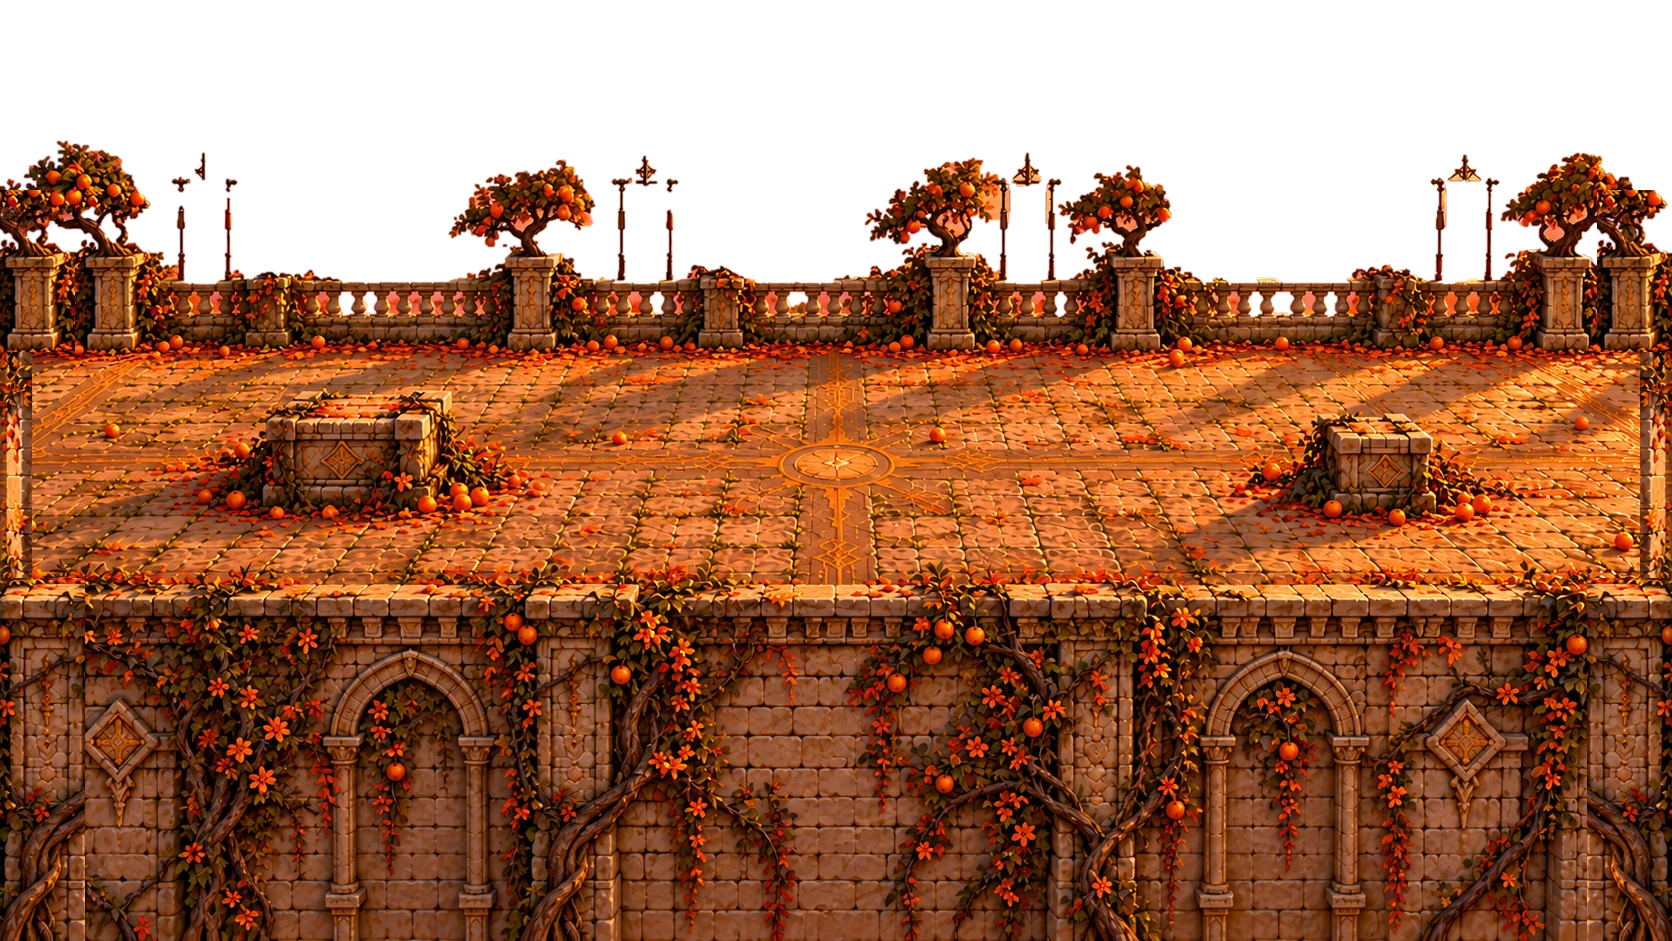
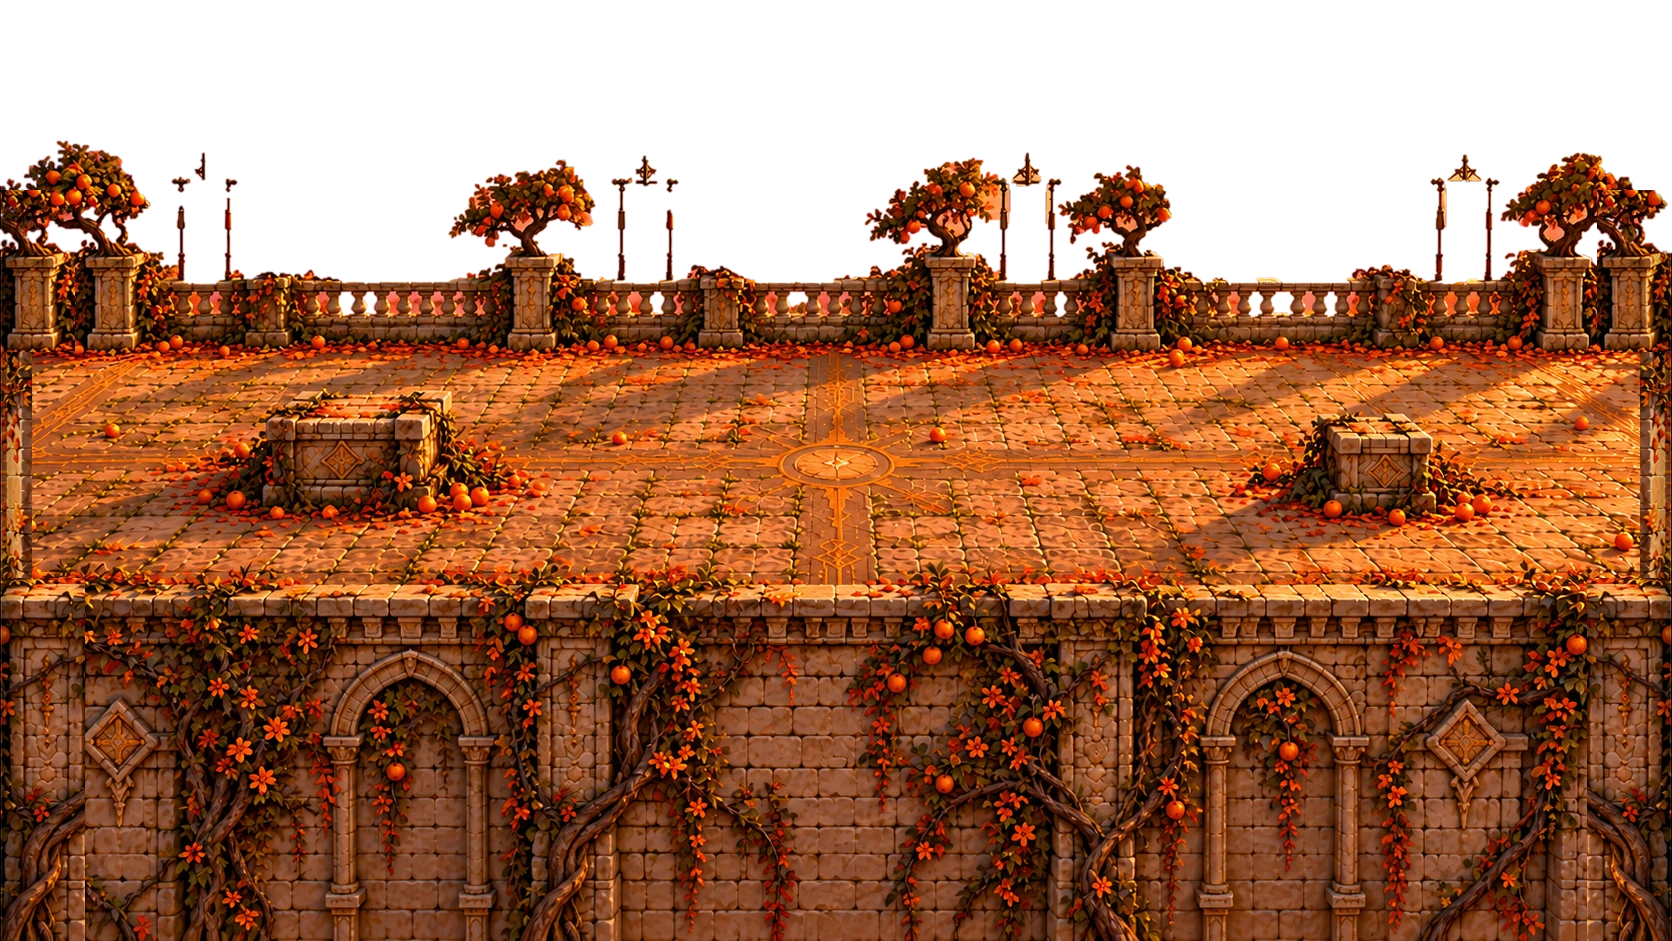
Movement, smoother: no freeze on landing on a block (you keep going the way you hold); a jump a little in front of / behind a block still lands on it (46 px of depth forgiveness); jumping on a map above no longer slows your depth movement (its whole floor is not held like a small block) — the stair 
Claude-Session: https://claude.ai/code/session_01L1uDDec2PRhRRuGiNU2YTw

diff --git a/src/world/OpenWorld.ts b/src/world/OpenWorld.ts
@@ -148,6 +148,19 @@ export class OpenWorld {
         if (!this.scene.load.isLoading()) this.scene.load.start();
       };
       put(`heights-${h.id}`, h.img, () => this.towers.push(this.scene.add.image(h.x, h.imgY, `heights-${h.id}`).setOrigin(0, 0).setDepth(h.depth ?? -1.2)));
+      // its wall's shadow on the floor in front of its foot (the lower floor, or the map it rises from): anchors it there
+      if (!this.scene.textures.exists('heights-shade')) {
+        const c = this.scene.textures.createCanvas('heights-shade', 256, 64)!, x = c.getContext();
+        const gy = x.createLinearGradient(0, 0, 0, 64); gy.addColorStop(0, 'rgba(20,8,4,0.55)'); gy.addColorStop(0.35, 'rgba(20,8,4,0.28)'); gy.addColorStop(1, 'rgba(20,8,4,0)');
+        x.fillStyle = gy; x.fillRect(0, 0, 256, 64);
+        x.globalCompositeOperation = 'destination-in';
+        const gx = x.createLinearGradient(0, 0, 256, 0); gx.addColorStop(0, 'rgba(0,0,0,0)'); gx.addColorStop(0.08, 'rgba(0,0,0,1)'); gx.addColorStop(0.92, 'rgba(0,0,0,1)'); gx.addColorStop(1, 'rgba(0,0,0,0)');
+        x.fillStyle = gx; x.fillRect(0, 0, 256, 64); c.refresh();
+      }
+      const under = HEIGHTS.find((o) => o !== h && o.H < h.H && h.x + 40 >= o.x && h.x + h.w - 40 <= o.x + o.w);
+      const baseZ = under ? under.H : 0;
+      this.towers.push(this.scene.add.image(h.x + h.w / 2, h.front - baseZ, 'heights-shade').setOrigin(0.5, 0).setDisplaySize(h.w + 20, 70)
+        .setDepth(under ? (under.depth ?? -1.2) + 0.05 : -0.9));
       for (const b of h.blocks) put(`heights-${h.id}-${b.id}`, b.occ.img, () => this.towers.push(this.scene.add.image(b.occ.x, h.imgY + b.occ.py, `heights-${h.id}-${b.id}`).setOrigin(0, 0).setDepth(h.front + 1 + b.front * 0.001)));
     }
   }
@@ -162,6 +175,12 @@ export class OpenWorld {
       for (let i = 24; i > 0; i--) { g.fillStyle(0xffe2a0, 0.06 + (1 - i / 24) * 0.09); g.fillEllipse(64, 16, 128 * (i / 24), 32 * (i / 24)); }
       g.generateTexture('climb-glow', 128, 32); g.destroy();
     }
+    if (!sc.textures.exists('climb-rim')) {
+      const g = sc.make.graphics({ x: 0, y: 0 }, false);
+      for (let i = 0; i < 5; i++) { g.fillStyle(0xfff0c0, [0.12, 0.3, 0.9, 0.3, 0.12][i]); g.fillRect(4, i * 2, 248, 2); }
+      g.fillStyle(0xfff0c0, 0.4); g.fillRect(0, 4, 4, 2); g.fillRect(252, 4, 4, 2);
+      g.generateTexture('climb-rim', 256, 10); g.destroy();
+    }
     if (!sc.textures.exists('climb-mote')) {
       const g = sc.make.graphics({ x: 0, y: 0 }, false);
       for (let r = 6; r > 0; r--) { g.fillStyle(0xfff2c8, 0.18 + (1 - r / 6) * 0.5); g.fillCircle(6, 6, r); }
@@ -174,6 +193,12 @@ export class OpenWorld {
       const cx = (t.x0 + t.x1) / 2, w = t.x1 - t.x0, top = t.front - Math.round(t.h / CUBE.h) * CUBE.h - CUBE.top / 2;
       const glow = add(sc.add.image(cx, top, 'climb-glow').setDisplaySize(w * 0.95, CUBE.top * 1.6).setBlendMode(Phaser.BlendModes.ADD).setDepth(t.front + 1.2));
       pulse(glow, 0.55, 1, 1300, i * 260);
+      // a bright rim along the top face's front edge (where you land) and a soft halo round the cube's top
+      const rimY = t.front - t.base - Math.round(t.h / CUBE.h) * CUBE.h;
+      const rim = add(sc.add.image(cx, rimY, 'climb-rim').setDisplaySize(w * 0.98, 10).setBlendMode(Phaser.BlendModes.ADD).setDepth(t.front + 1.25));
+      pulse(rim, 0.45, 1, 1300, i * 260);
+      const halo = add(sc.add.image(cx, top - 6, 'climb-glow').setDisplaySize(w * 1.35, CUBE.top * 3.2).setBlendMode(Phaser.BlendModes.ADD).setDepth(t.front + 1.15));
+      pulse(halo, 0.15, 0.45, 1300, i * 260);
       add(sc.add.particles(0, 0, 'climb-mote', {
         x: { min: t.x0 + 14, max: t.x1 - 14 }, y: { min: top - 8, max: top + 8 }, lifespan: 1400, speedY: { min: -38, max: -18 }, speedX: { min: -6, max: 6 },
         scale: { start: 0.9, end: 0.2 }, alpha: { start: 0.85, end: 0 }, frequency: 420, quantity: 1, blendMode: 'ADD',

diff --git a/src/combat/Combat.ts b/src/combat/Combat.ts
@@ -125,6 +125,8 @@ export function stepKin(k: Kin, ms: number, gravityScale = 1, blocked?: (x: numb
  *  the drift is held so that you come down on its top face (it is shallow: a jump toward it would carry you past it);
  *  never one you just left. And a step off its back edge drops you down behind it. Below a block's top (stepped off its
  *  edge, or come down beside it), the feet are eased clear of it before they reach the floor, never left half inside it. */
+/** How far (world px of depth) in front of / behind a block a jump still lands on it. */
+const LAND_FORGIVE = 46;
 export function settleOnBlocks(k: Kin, ms: number, moveY: number, own = false): void {
   if (k.grounded) {
     const o = k.supportId ? WORLD_OBJECTS.find((w) => w.id === k.supportId) : undefined;
@@ -150,7 +152,17 @@ export function settleOnBlocks(k: Kin, ms: number, moveY: number, own = false): 
       }
       continue;
     }
+    // Forgiving landing (a jump a little in front of a block, or a little behind it): at or above its top and over its
+    // width, the feet are drawn onto its top face, so a jump at a block never just misses it by a few px of depth.
+    if (own && o.id !== k.from && k.vz <= 120 && k.x > x0 + 6 && k.x < x1 - 6 && k.z >= o.topZ - 12 && !pointInPoly(k.x, k.y, o.footprint)) {
+      const gap = k.y >= y1 ? k.y - y1 : y0 - k.y;
+      if (gap >= 0 && gap < LAND_FORGIVE && footAllowed(k.x, k.y >= y1 ? y1 - 2 : y0 + 2, Math.max(k.z, o.topZ), PHYS.footR, k)) {
+        const to = k.y >= y1 ? y1 - 2 : y0 + 2, step = Math.max(2, ms * 0.6);
+        k.y += Math.max(-step, Math.min(step, to - k.y)); k.vy *= 0.5;
+      }
+    }
     if (!own || o.id === k.from || !pointInPoly(k.x, k.y, o.footprint)) continue;
+    if (x1 - x0 > 700) continue;   // a whole floor above (a map over the terrace): wide enough, nothing to hold
     // Over it: t = the time until the feet are back down at its top. A drift that would carry them past its top face (a
     // little in from its edges) eases off evenly to come to rest there as they land: never faster than 2·room / t.
     const g = PHYS.gravity, t = Math.max(ms / 1000, (k.vz + Math.sqrt(Math.max(0, k.vz * k.vz + 2 * g * (k.z - o.topZ)))) / g);

diff --git a/src/scenes/LegacyCourtyardScene.ts b/src/scenes/LegacyCourtyardScene.ts
@@ -727,9 +727,8 @@ export class LegacyCourtyardScene extends Phaser.Scene {
     if (this.world) settleOnBlocks(k, ms, this.blockHold.y ? 0 : this.ci?.moveY ?? 0, b.state === 'free');
     const ev = b.update(now, ms, r.landed, r.impactVz);
     if (r.landed) {
-      if (k.supportId && k.supportZ > 0 && WORLD_OBJECTS.some((o) => o.id === k.supportId && o.stand)) { // onto a block: you stay on it
-        this.blockHold = { x: Math.sign(this.ci?.moveX ?? 0), y: Math.sign(this.ci?.moveY ?? 0) }; k.vx = 0; k.vy = 0;
-      }
+      // onto a block: you keep going the way you hold (MapleStory) — no freeze on landing; the drift in the air was already
+      // held so that you come down on its top
       if (r.impactVz > 180) this.fx!.dust(k.x, k.y - k.z, 48 + Math.min(70, r.impactVz / 8), 0.75, this.dustDepth(k));
       if (b.state === 'free' && !this.rt!.ownRun) this.setMode('land');
     }

diff --git a/tools/world/heights.py b/tools/world/heights.py
@@ -28,7 +28,7 @@ MAPS = {
                              {'id': 'block-r', 'x': (1321, 1434), 'front': 510, 'h': 70, 'depth': 23}],
                   'mobs': {'kind': 'thorn', 'spawns': [[300, 545], [620, 470], [820, 545], [1010, 445], [1180, 530], [1400, 480]]}},
 }
-EDGE_SHADE = 10   # px: the cut ends of the floor shaded a little
+EDGE_SHADE = 34   # px: the ends shaded toward their edge (they turn away from the light: volume)
 WALK_IN = 70    # the walkable floor stops this far in from each end (the corner posts): the picture's left / right ends fade out (the floor ends in the air there; you cannot walk off it)
 out_dir = R + 'public/assets/world/heights/'; os.makedirs(out_dir, exist_ok=True)
 data = []
@@ -63,8 +63,13 @@ for id_, m in MAPS.items():
     reg[..., :3] = (post[..., :3] * pa + reg[..., :3] * (1 - pa)).astype(np.uint8); reg[..., 3] = np.maximum(reg[..., 3], post[..., 3])
     edge = np.arange(EDGE_SHADE)[::-1] if side == 0 else np.arange(EDGE_SHADE)
     cols = slice(0, EDGE_SHADE) if side == 0 else slice(w - EDGE_SHADE, w)
-    k = 1 - 0.35 * (edge / EDGE_SHADE)
+    k = 1 - 0.42 * (edge / EDGE_SHADE) ** 1.6
     rgba[:, cols, :3] = (rgba[:, cols, :3] * k[None, :, None]).astype(np.uint8)
+    # a thin warm rim of light along the very edge (the sun catching the corner) and a dark outline just inside it
+    ex = 0 if side == 0 else w - 1; ix = 1 if side == 0 else w - 2
+    vis = rgba[:, ex, 3] > 0
+    rgba[vis, ex, :3] = np.clip(rgba[vis, ex, :3] * 0.35, 0, 255).astype(np.uint8)
+    rgba[vis, ix, :3] = np.clip(rgba[vis, ix, :3].astype(np.float32) * 1.25 + 18, 0, 255).astype(np.uint8)
   cv2.imwrite(out_dir + f'{id_}.webp', cv2.cvtColor(rgba, cv2.COLOR_RGBA2BGRA), [cv2.IMWRITE_WEBP_QUALITY, 90])
   X0 = STRIP['areas'][m['over']]['x'] + m.get('dx', 0); f0, f1 = m['floor']; F = m['front']; H = m['H']
   occ = []   # each block's own cut-out: drawn over whoever walks behind it up there
